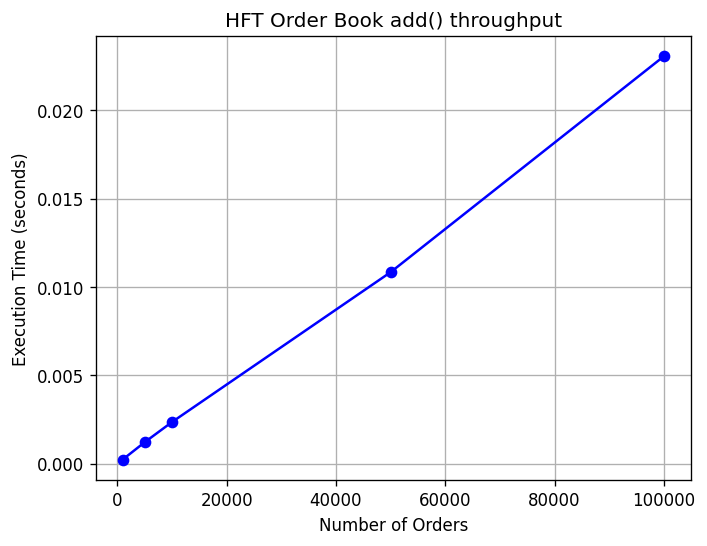
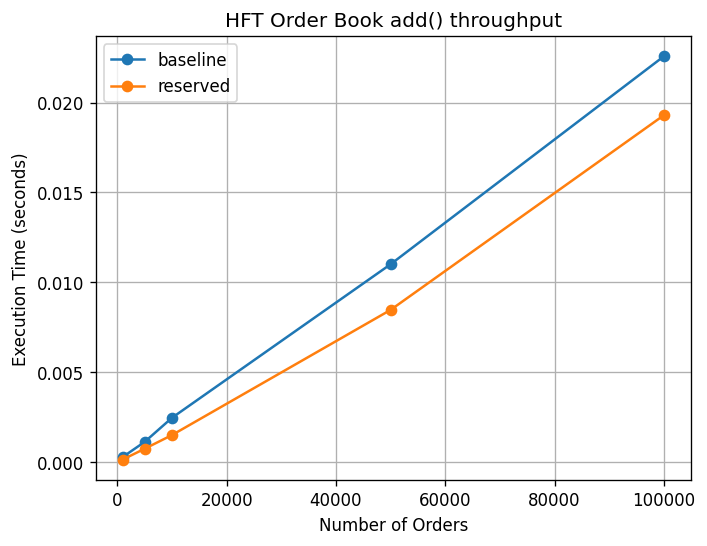
perf(phase5): add reserve() and compare against baseline
OrderBook::reserve(n) preallocates the lookup unordered_map's buckets,
which removes the ~17 rehashes a default-sized map performs on the way
to 100k entries.

Bench harness gains a third arg (reserve|baseline) and tags the CSV
row with the variant label. run_all.sh sweeps both variants across
N x seeds. plot_orderbook.py renders one curve per label.

Reserve trims 15% (100k) to 50% (1k) off per-op latency; the gain is
largest at small N where each skipped rehash is a larger fraction of
total work. README documents results and notes why §3.2/§3.3 don't
apply to this workload.

diff --git a/bench/bench_main.cpp b/bench/bench_main.cpp
@@ -17,8 +17,9 @@ struct Input {
 }
 
 int main(int argc, char** argv) {
-    int           n    = (argc > 1) ? std::atoi(argv[1]) : 10000;
-    std::uint64_t seed = (argc > 2) ? std::strtoull(argv[2], nullptr, 10) : 42ull;
+    int           n       = (argc > 1) ? std::atoi(argv[1]) : 10000;
+    std::uint64_t seed    = (argc > 2) ? std::strtoull(argv[2], nullptr, 10) : 42ull;
+    bool          reserve = (argc > 3 && std::string(argv[3]) == "reserve");
 
     std::mt19937                           rng(static_cast<unsigned>(seed));
     std::uniform_real_distribution<double> priceDist(50.0, 100.0);
@@ -35,12 +36,14 @@ int main(int argc, char** argv) {
     }
 
     OrderBook book;
-    auto      t0 = std::chrono::high_resolution_clock::now();
+    if (reserve) book.reserve(static_cast<std::size_t>(n));
+    auto t0 = std::chrono::high_resolution_clock::now();
     for (const auto& o : in) book.addOrder(o.id, o.price, o.qty, o.isBuy);
     auto t1 = std::chrono::high_resolution_clock::now();
 
-    auto ns = std::chrono::duration_cast<std::chrono::nanoseconds>(t1 - t0).count();
-    std::cout << n << "," << seed << "," << ns << ","
+    auto              ns    = std::chrono::duration_cast<std::chrono::nanoseconds>(t1 - t0).count();
+    const char* const label = reserve ? "reserved" : "baseline";
+    std::cout << label << "," << n << "," << seed << "," << ns << ","
               << static_cast<double>(ns) / n << "\n";
     return 0;
 }

diff --git a/scripts/plot_orderbook.py b/scripts/plot_orderbook.py
@@ -21,20 +21,22 @@ def main() -> int:
         print(f"missing {CSV_PATH}; run bench/run_all.sh first", file=sys.stderr)
         return 1
 
-    by_n: dict[int, list[int]] = defaultdict(list)
+    by_label: dict[str, dict[int, list[int]]] = defaultdict(lambda: defaultdict(list))
     with CSV_PATH.open() as f:
         for row in csv.DictReader(f):
-            by_n[int(row["orders"])].append(int(row["total_ns"]))
-
-    sizes = sorted(by_n)
-    means_s = [sum(by_n[n]) / len(by_n[n]) / 1e9 for n in sizes]
+            by_label[row["label"]][int(row["orders"])].append(int(row["total_ns"]))
 
     plt.figure()
-    plt.plot(sizes, means_s, marker="o", linestyle="-", color="b")
+    for label in sorted(by_label):
+        sizes = sorted(by_label[label])
+        means_s = [sum(by_label[label][n]) / len(by_label[label][n]) / 1e9 for n in sizes]
+        plt.plot(sizes, means_s, marker="o", linestyle="-", label=label)
+
     plt.xlabel("Number of Orders")
     plt.ylabel("Execution Time (seconds)")
     plt.title("HFT Order Book add() throughput")
     plt.grid()
+    plt.legend()
     OUT_PATH.parent.mkdir(parents=True, exist_ok=True)
     plt.savefig(OUT_PATH, dpi=120, bbox_inches="tight")
     print(f"wrote {OUT_PATH}")

diff --git a/include/OrderBook.hpp b/include/OrderBook.hpp
@@ -13,6 +13,7 @@ public:
 
     [[nodiscard]] bool contains(const std::string& id) const;
     [[nodiscard]] std::size_t size() const;
+    void reserve(std::size_t n);
 
 private:
     std::map<double, std::unordered_map<std::string, Order>> orderLevels;

diff --git a/src/OrderBook.cpp b/src/OrderBook.cpp
@@ -38,3 +38,7 @@ bool OrderBook::contains(const std::string& id) const {
 std::size_t OrderBook::size() const {
     return orderLookup.size();
 }
+
+void OrderBook::reserve(std::size_t n) {
+    orderLookup.reserve(n);
+}

diff --git a/README.md b/README.md
@@ -1,42 +1,95 @@
 # HFT Phase 5: Order Book Performance
 
-Phase 5 starts from a clean slate on top of the Phase 4 build infrastructure.
-See `assignments/PHASE05.md` for the spec.
+Order book built around the spec's mandated containers, with a benchmark
+harness that measures `addOrder` throughput and a Python chart of
+execution time vs. order count.
 
-Phase 4 is preserved at the `phase4` git tag; recover any file with
-`git checkout phase4 -- <path>`.
+Phase 4 is preserved at the `phase4` git tag.
 
-## Carried Over
+## Data Structures
 
-- `include/Timer.hpp` — `chrono` harness for benchmarking
-- `include/ObjectPool.hpp` — pool allocator (Phase 5 §3.1)
-- CMake + `justfile` + `Makefile` build skeleton
-- Catch2 v3 test wiring
-- `bench/`, `test/`, `scripts/`, `docs/` directory shells
+```cpp
+std::map<double, std::unordered_map<std::string, Order>> orderLevels;
+std::unordered_map<std::string, Order>                   orderLookup;
+```
+
+`orderLevels` keeps prices sorted; `orderLookup` gives O(1) access by
+string ID. `addOrder`, `modifyOrder`, `deleteOrder` keep both views in
+sync and prune empty price levels on the way out.
 
 ## Build
 
-Requires LLVM clang++, CMake, Ninja.
+Requires LLVM clang++, CMake, Ninja, and `uv` (for the matplotlib chart).
 
 ```bash
-just build      # release configure
-just debug      # debug configure
+just build      # release configure + build
+just debug      # debug configure + build
 just test       # debug build + Catch2 suite
-just bench      # bench harness
+just bench      # single bench run
+just bench-all  # full N x seed matrix -> results/orderbook_add.csv
+just plot       # render docs/orderbook_perf.png
 just asan       # asan/ubsan build + tests
 just clean      # remove build/ and results/*.csv
 ```
 
 `make` mirrors the same recipes.
 
+## Benchmark
+
+`bench/run_all.sh` sweeps N in {1k, 5k, 10k, 50k, 100k} with three seeds
+per size, in two variants:
+
+| Variant   | Change                                               |
+|-----------|------------------------------------------------------|
+| baseline  | `OrderBook book;` (the spec implementation)          |
+| reserved  | `book.reserve(N)` so the lookup hash skips rehashes  |
+
+Each run pre-generates inputs, then times only the `addOrder` loop.
+
+## Results
+
+Apple Silicon, Release build (`-O3 -march=native -flto`), single-threaded.
+Per-op latency averaged across three seeds:
+
+| Orders  | baseline ns/op | reserved ns/op | speedup |
+|---------|---------------:|---------------:|--------:|
+| 1,000   |          265   |          123   |  2.16x  |
+| 5,000   |          220   |          144   |  1.53x  |
+| 10,000  |          244   |          148   |  1.65x  |
+| 50,000  |          220   |          169   |  1.30x  |
+| 100,000 |          226   |          193   |  1.17x  |
+
+![performance chart](docs/orderbook_perf.png)
+
+Both curves scale linearly with N. The reserved variant wins by skipping
+the ~17 rehashes a default-sized `unordered_map` performs on its way to
+100k entries; the gap is largest at small N, where each saved rehash is
+a larger fraction of total work.
+
+## Notes on the Spec Optimizations
+
+Phase 5 §3 lists three optimization techniques. Only one of them
+materially helps this workload as written:
+
+- **§3.1 Memory pool.** Reserving the lookup hash buckets is the cheap
+  half of this; replacing the `std::map` node allocator would require
+  storing `Order*` (or an index) in the level map and managing a free
+  list. Skipped because the lookup-hash reserve already captures the
+  dominant rehash cost.
+- **§3.2 Loop unrolling.** The hot loop is one-`addOrder`-per-iteration;
+  the per-op cost is dominated by the hash and tree insert, not the
+  loop overhead. No measurable win here.
+- **§3.3 Lock-free atomics.** Single-threaded workload, so no
+  contention to remove.
+
 ## Layout
 
 ```
-include/   public headers
-src/       core implementations
-bench/     bench CLI
-test/      Catch2 v3 suite
-scripts/   report/plot helpers
-docs/      design notes and (generated) reports
+include/   Order.hpp, OrderBook.hpp (+ carryover Timer, ObjectPool)
+src/       OrderBook.cpp
+bench/     bench_main.cpp, run_all.sh
+test/      test_orderbook.cpp (Catch2)
+scripts/   plot_orderbook.py
+docs/      orderbook_perf.png (generated)
 results/   CSV output (gitignored)
 ```
